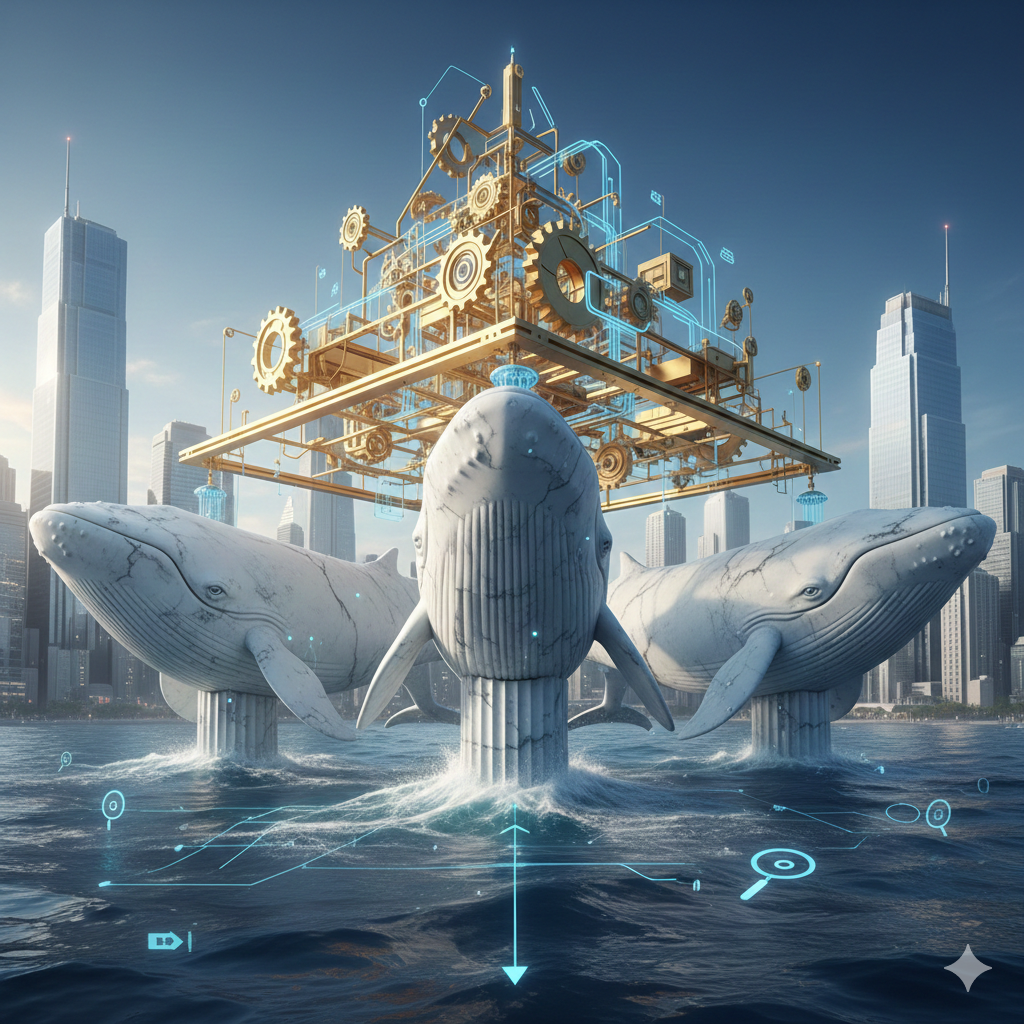
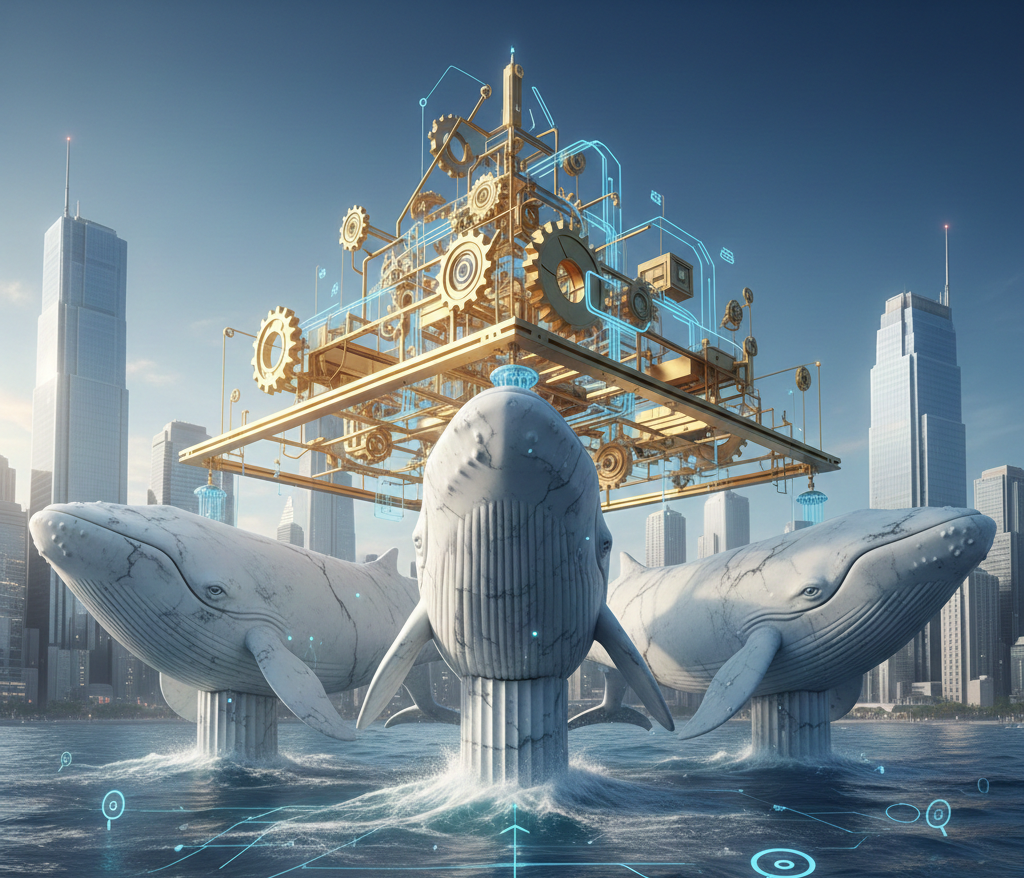
book_list

diff --git a/ru/post/three_whales/index.html b/ru/post/three_whales/index.html
@@ -836,19 +836,11 @@
 
 
 
-
-
-
-
-
-
-
-
+  
 
   
   
-
-
+  
 <div class="article-container pt-3">
   <h1>Три кита стратегического планирования</h1>
 
@@ -857,6 +849,7 @@
   
 
   
+    
 
 
 <div class="article-metadata">
@@ -897,20 +890,13 @@
 
 </div>
 
-  
-
-
-
-
-
-</div>
-
-
-<div class="article-header article-container featured-image-wrapper mt-4 mb-4" style="max-width: 720px; max-height: 720px;">
-  <div style="position: relative">
-    <img src="/ru/post/three_whales/featured_hu25eb6985ee65456098824e3e33a8c372_2031153_720x2500_fit_q75_h2_lanczos_3.webp" width="720" height="720" alt="" class="featured-image">
     
-  </div>
+
+
+
+
+
+  
 </div>
 
 

diff --git a/post/three_whales/index.html b/post/three_whales/index.html
@@ -836,19 +836,11 @@
 
 
 
-
-
-
-
-
-
-
-
+  
 
   
   
-
-
+  
 <div class="article-container pt-3">
   <h1>Three pillars of strategic planning</h1>
 
@@ -857,6 +849,7 @@
   
 
   
+    
 
 
 <div class="article-metadata">
@@ -897,20 +890,13 @@
 
 </div>
 
-  
-
-
-
-
-
-</div>
-
-
-<div class="article-header article-container featured-image-wrapper mt-4 mb-4" style="max-width: 720px; max-height: 720px;">
-  <div style="position: relative">
-    <img src="/post/three_whales/featured_hu25eb6985ee65456098824e3e33a8c372_2031153_720x2500_fit_q75_h2_lanczos_3.webp" width="720" height="720" alt="" class="featured-image">
     
-  </div>
+
+
+
+
+
+  
 </div>
 
 

diff --git a/ru/index.html b/ru/index.html
@@ -1781,7 +1781,7 @@
     
     
     <a href="/ru/post/three_whales/" >
-      <img src="/ru/post/three_whales/featured_hu25eb6985ee65456098824e3e33a8c372_2031153_150x0_resize_q75_h2_lanczos_3.webp" height="150" width="150"
+      <img src="/ru/post/three_whales/featured_hu54add98467f2e8397a4cbe7a7aa3d6eb_1656001_150x0_resize_q75_h2_lanczos_3.webp" height="129" width="150"
            alt="Три кита стратегического планирования" loading="lazy">
     </a>
     

diff --git a/ru/category/management/index.html b/ru/category/management/index.html
@@ -895,7 +895,7 @@
     
     
     <a href="/ru/post/three_whales/" >
-      <img src="/ru/post/three_whales/featured_hu25eb6985ee65456098824e3e33a8c372_2031153_150x0_resize_q75_h2_lanczos_3.webp" height="150" width="150"
+      <img src="/ru/post/three_whales/featured_hu54add98467f2e8397a4cbe7a7aa3d6eb_1656001_150x0_resize_q75_h2_lanczos_3.webp" height="129" width="150"
            alt="Три кита стратегического планирования" loading="lazy">
     </a>
     

diff --git a/ru/post/index.html b/ru/post/index.html
@@ -896,7 +896,7 @@
     
     
     <a href="/ru/post/three_whales/" >
-      <img src="/ru/post/three_whales/featured_hu25eb6985ee65456098824e3e33a8c372_2031153_150x0_resize_q75_h2_lanczos_3.webp" height="150" width="150"
+      <img src="/ru/post/three_whales/featured_hu54add98467f2e8397a4cbe7a7aa3d6eb_1656001_150x0_resize_q75_h2_lanczos_3.webp" height="129" width="150"
            alt="Три кита стратегического планирования" loading="lazy">
     </a>
     

diff --git a/ru/tag/management/index.html b/ru/tag/management/index.html
@@ -895,7 +895,7 @@
     
     
     <a href="/ru/post/three_whales/" >
-      <img src="/ru/post/three_whales/featured_hu25eb6985ee65456098824e3e33a8c372_2031153_150x0_resize_q75_h2_lanczos_3.webp" height="150" width="150"
+      <img src="/ru/post/three_whales/featured_hu54add98467f2e8397a4cbe7a7aa3d6eb_1656001_150x0_resize_q75_h2_lanczos_3.webp" height="129" width="150"
            alt="Три кита стратегического планирования" loading="lazy">
     </a>
     

diff --git a/index.html b/index.html
@@ -1781,7 +1781,7 @@
     
     
     <a href="/post/three_whales/" >
-      <img src="/post/three_whales/featured_hu25eb6985ee65456098824e3e33a8c372_2031153_150x0_resize_q75_h2_lanczos_3.webp" height="150" width="150"
+      <img src="/post/three_whales/featured_hu54add98467f2e8397a4cbe7a7aa3d6eb_1656001_150x0_resize_q75_h2_lanczos_3.webp" height="129" width="150"
            alt="Three pillars of strategic planning" loading="lazy">
     </a>
     

diff --git a/category/management/index.html b/category/management/index.html
@@ -895,7 +895,7 @@
     
     
     <a href="/post/three_whales/" >
-      <img src="/post/three_whales/featured_hu25eb6985ee65456098824e3e33a8c372_2031153_150x0_resize_q75_h2_lanczos_3.webp" height="150" width="150"
+      <img src="/post/three_whales/featured_hu54add98467f2e8397a4cbe7a7aa3d6eb_1656001_150x0_resize_q75_h2_lanczos_3.webp" height="129" width="150"
            alt="Three pillars of strategic planning" loading="lazy">
     </a>
     

diff --git a/post/index.html b/post/index.html
@@ -896,7 +896,7 @@
     
     
     <a href="/post/three_whales/" >
-      <img src="/post/three_whales/featured_hu25eb6985ee65456098824e3e33a8c372_2031153_150x0_resize_q75_h2_lanczos_3.webp" height="150" width="150"
+      <img src="/post/three_whales/featured_hu54add98467f2e8397a4cbe7a7aa3d6eb_1656001_150x0_resize_q75_h2_lanczos_3.webp" height="129" width="150"
            alt="Three pillars of strategic planning" loading="lazy">
     </a>
     

diff --git a/tag/management/index.html b/tag/management/index.html
@@ -895,7 +895,7 @@
     
     
     <a href="/post/three_whales/" >
-      <img src="/post/three_whales/featured_hu25eb6985ee65456098824e3e33a8c372_2031153_150x0_resize_q75_h2_lanczos_3.webp" height="150" width="150"
+      <img src="/post/three_whales/featured_hu54add98467f2e8397a4cbe7a7aa3d6eb_1656001_150x0_resize_q75_h2_lanczos_3.webp" height="129" width="150"
            alt="Three pillars of strategic planning" loading="lazy">
     </a>
     
